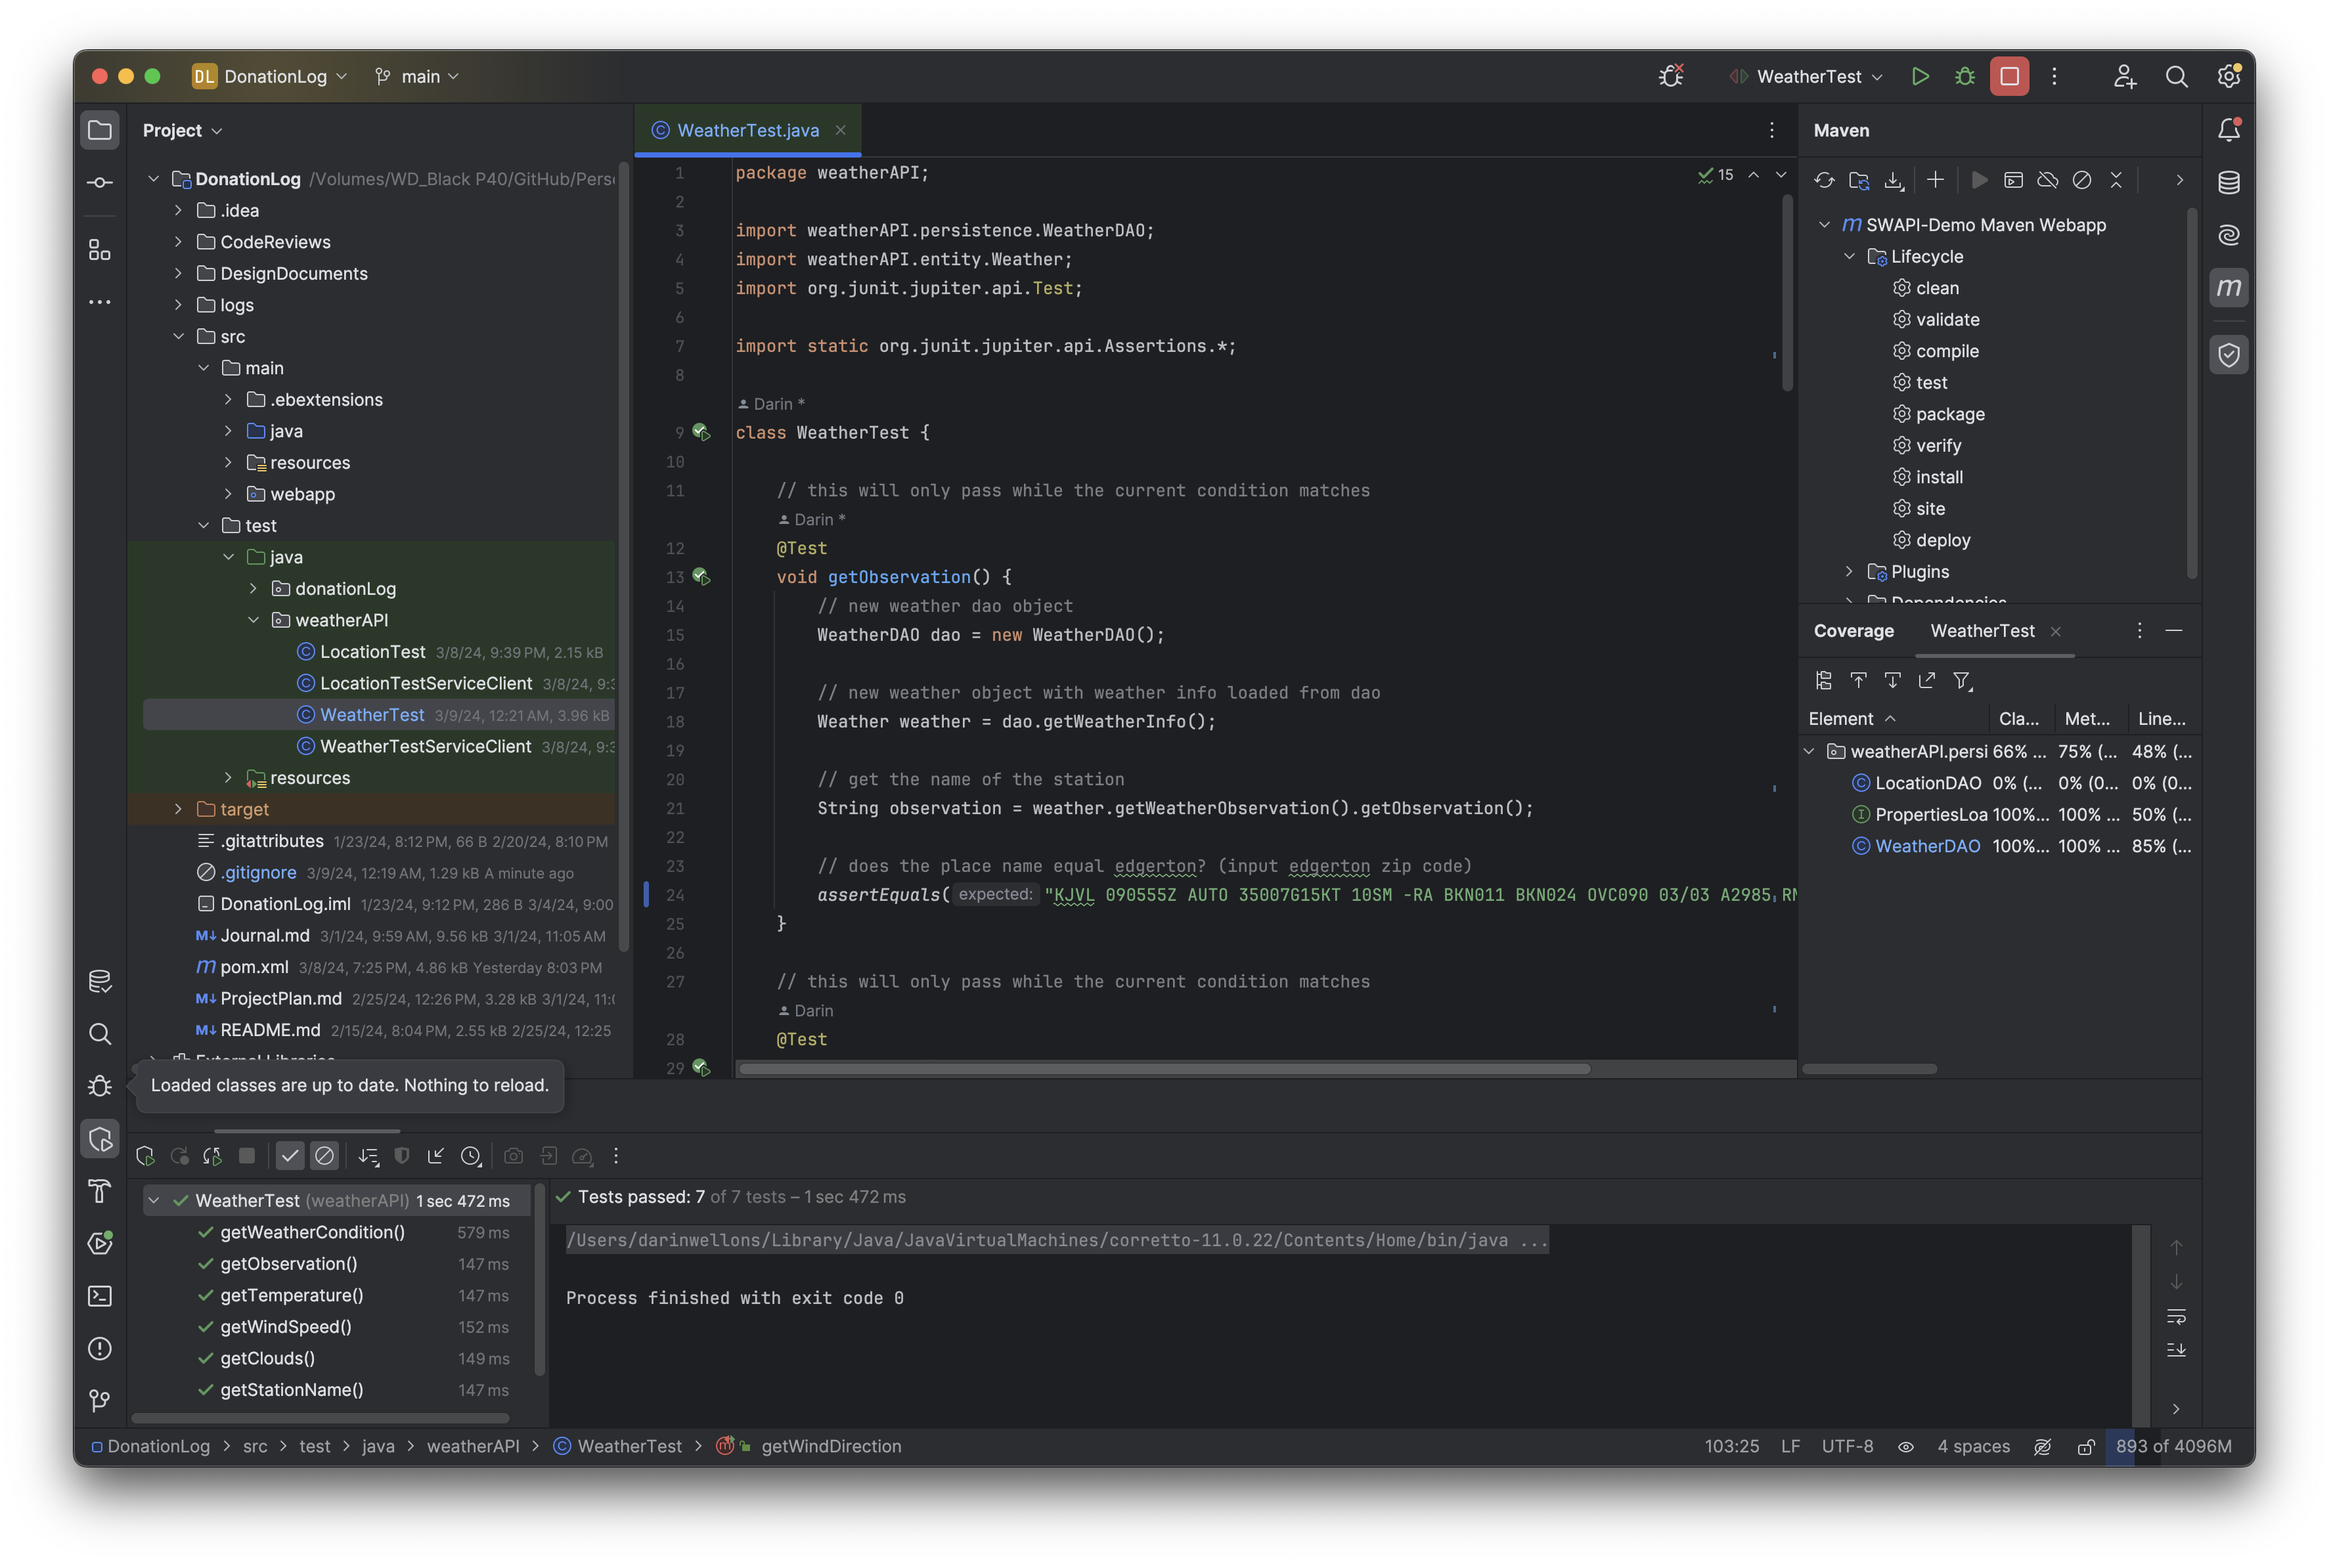
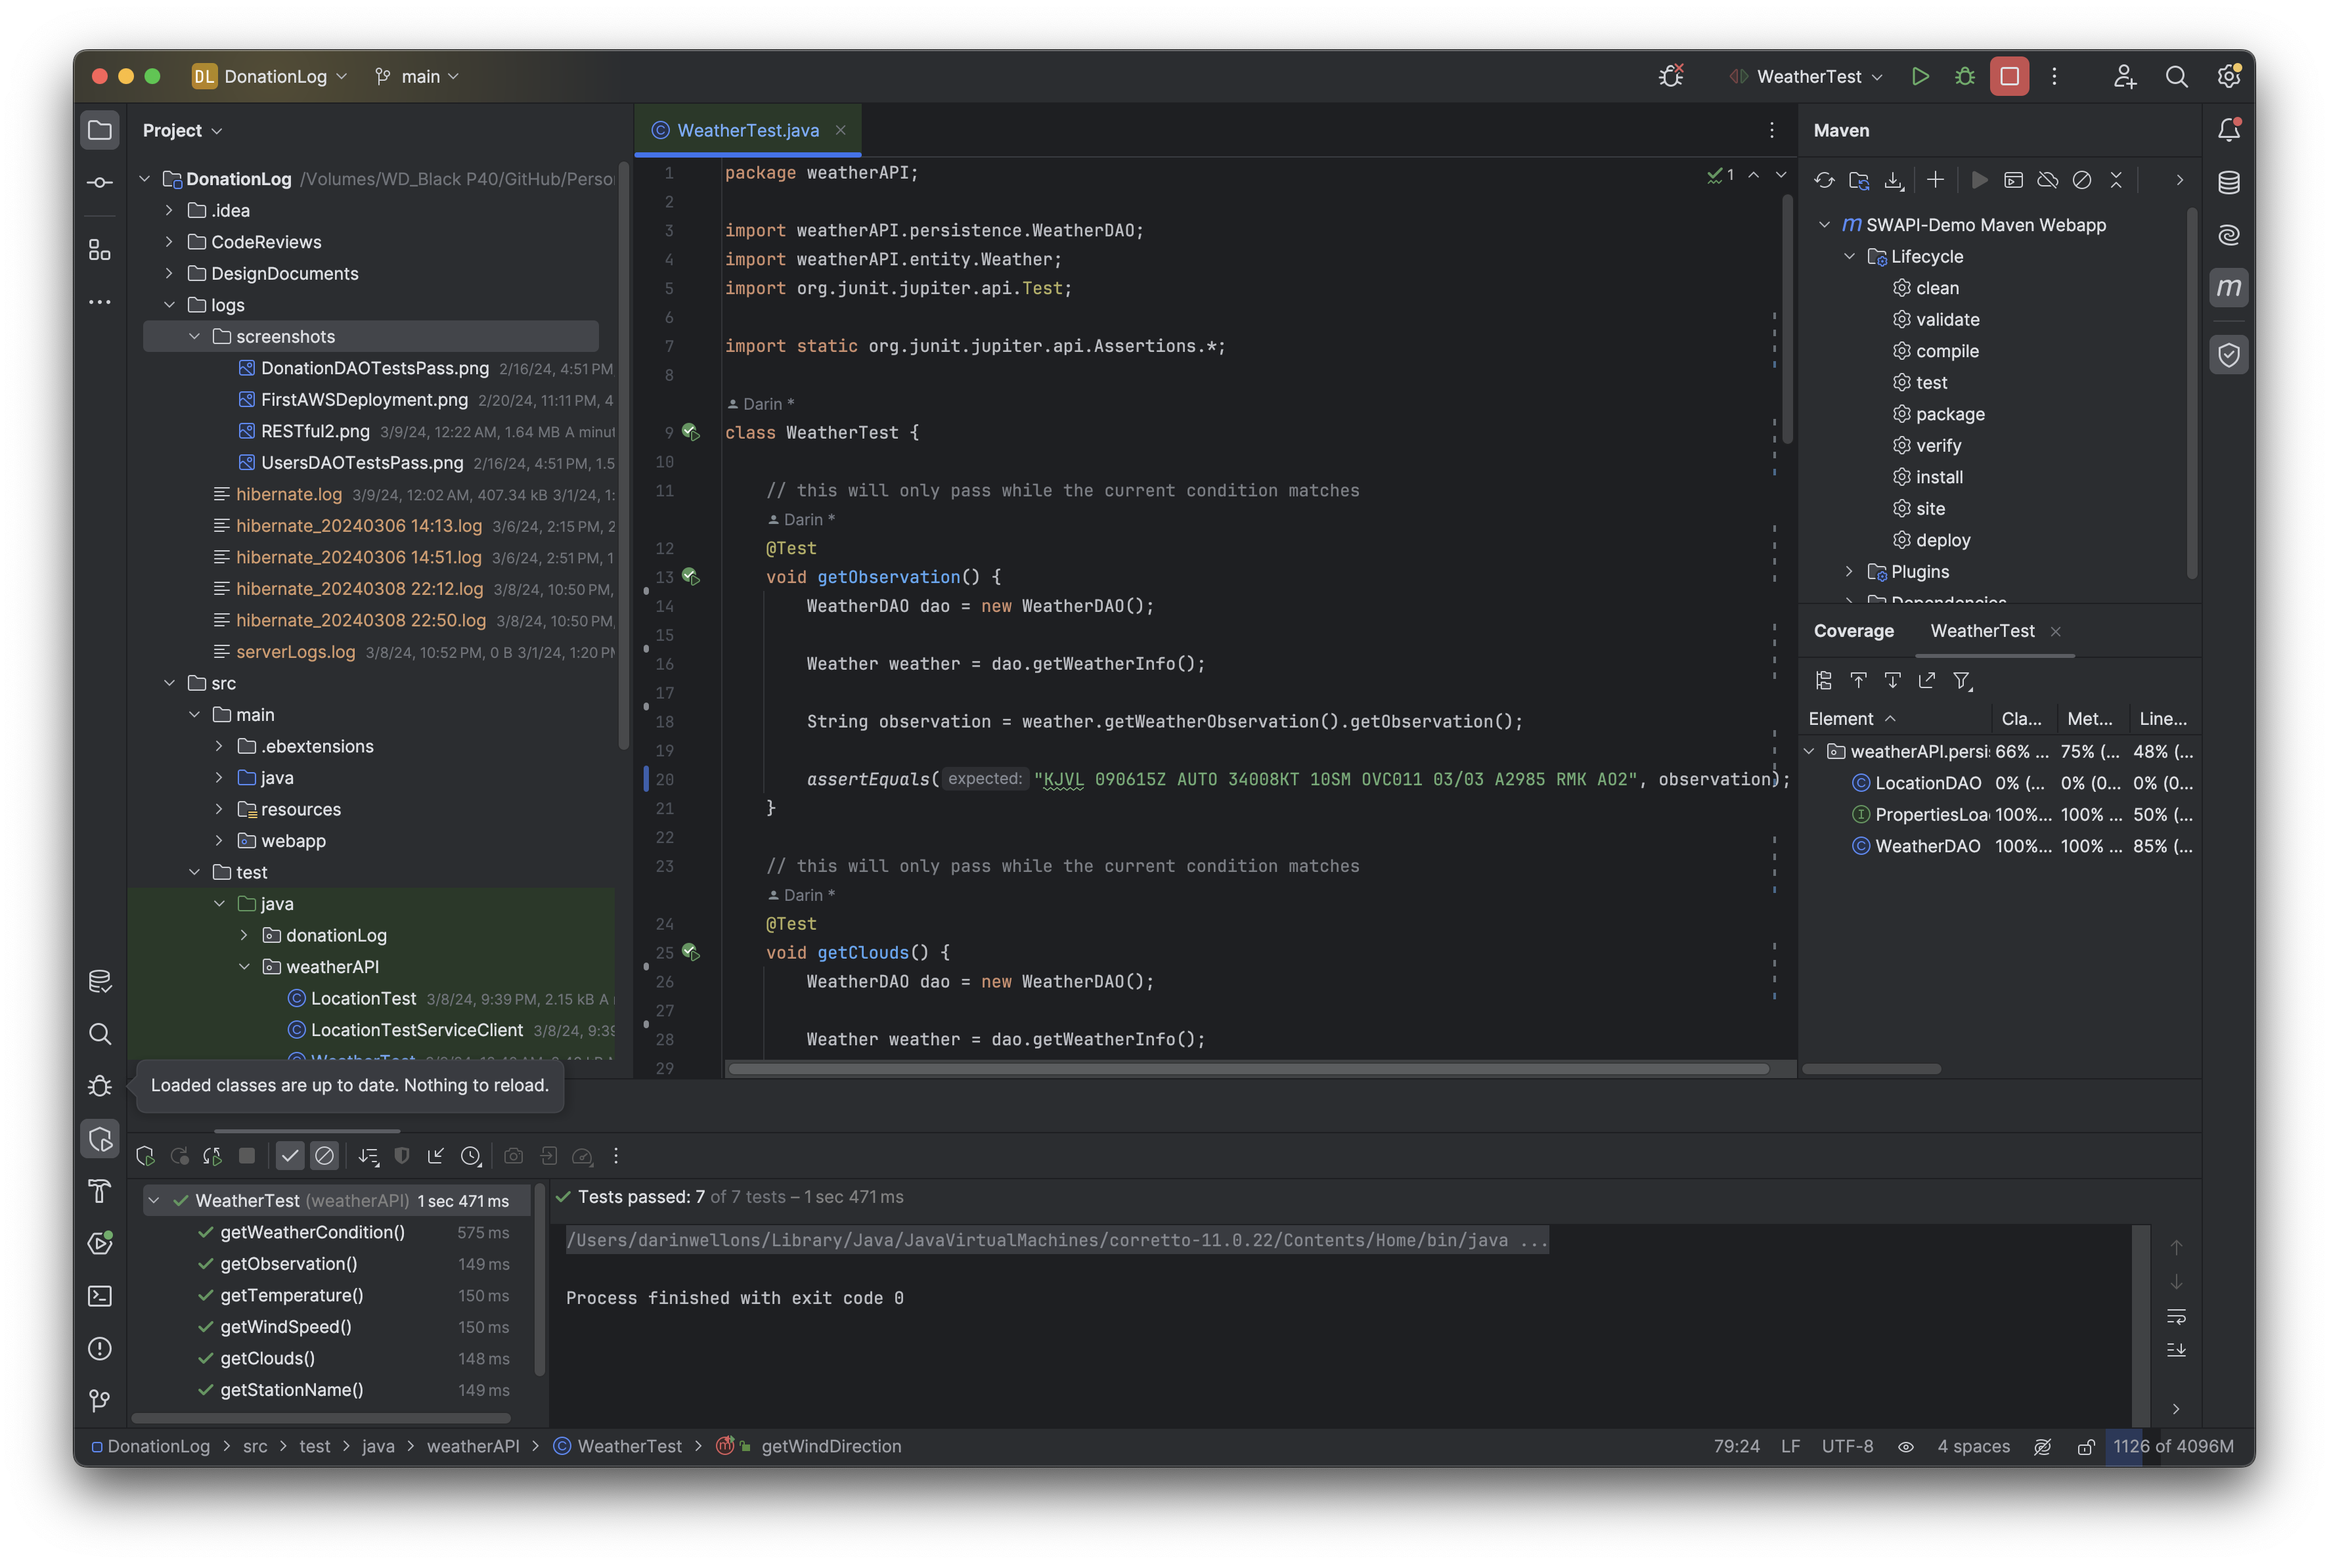
week 8 ready for review

diff --git a/src/test/java/weatherAPI/WeatherTest.java b/src/test/java/weatherAPI/WeatherTest.java
@@ -11,111 +11,83 @@ class WeatherTest {
     // this will only pass while the current condition matches
     @Test
     void getObservation() {
-        // new weather dao object
         WeatherDAO dao = new WeatherDAO();
 
-        // new weather object with weather info loaded from dao
         Weather weather = dao.getWeatherInfo();
 
-        // get the name of the station
         String observation = weather.getWeatherObservation().getObservation();
 
-        // does the place name equal edgerton? (input edgerton zip code)
-        assertEquals("KJVL 090555Z AUTO 35007G15KT 10SM -RA BKN011 BKN024 OVC090 03/03 A2985 RMK AO2", observation);
+        assertEquals("KJVL 090615Z AUTO 34008KT 10SM OVC011 03/03 A2985 RMK AO2", observation);
     }
 
     // this will only pass while the current condition matches
     @Test
     void getClouds() {
-        // new weather dao object
         WeatherDAO dao = new WeatherDAO();
 
-        // new weather object with weather info loaded from dao
         Weather weather = dao.getWeatherInfo();
 
-        // get the name of the station
         String clouds = weather.getWeatherObservation().getClouds();
 
-        // does the place name equal edgerton? (input edgerton zip code)
-        assertEquals("broken clouds", clouds);
+        assertEquals("overcast", clouds);
     }
 
     // this will only pass while the current condition matches
     @Test
     void getTemperature() {
-        // new weather dao object
         WeatherDAO dao = new WeatherDAO();
 
-        // new weather object with weather info loaded from dao
         Weather weather = dao.getWeatherInfo();
 
-        // get the name of the station
         String temperature = weather.getWeatherObservation().getTemperature();
 
-        // does the place name equal edgerton? (input edgerton zip code)
         assertEquals("3", temperature);
     }
 
     @Test
     void getStationName() {
-        // new weather dao object
         WeatherDAO dao = new WeatherDAO();
 
-        // new weather object with weather info loaded from dao
         Weather weather = dao.getWeatherInfo();
 
-        // get the name of the station
         String placeName = weather.getWeatherObservation().getStationName();
 
-        // does the place name equal edgerton? (input edgerton zip code)
         assertEquals("Janesville / Rock County", placeName);
     }
 
     // this will only pass while the current condition matches
     @Test
     void getWeatherCondition() {
-        // new weather dao object
         WeatherDAO dao = new WeatherDAO();
 
-        // new weather object with weather info loaded from dao
         Weather weather = dao.getWeatherInfo();
 
-        // get the name of the station
         String condition = weather.getWeatherObservation().getWeatherCondition();
 
-        // does the place name equal edgerton? (input edgerton zip code)
-        assertEquals("light rain", condition);
+        assertEquals("n/a", condition);
     }
 
     // this will only pass while the current condition matches
     @Test
     void getWindDirection() {
-        // new weather dao object
         WeatherDAO dao = new WeatherDAO();
 
-        // new weather object with weather info loaded from dao
         Weather weather = dao.getWeatherInfo();
 
-        // get the name of the station
         int windDirection = weather.getWeatherObservation().getWindDirection();
 
-        // does the place name equal edgerton? (input edgerton zip code)
-        assertEquals(350, windDirection);
+        assertEquals(340, windDirection);
     }
 
     // this will only pass while the current condition matches
     @Test
     void getWindSpeed() {
-        // new weather dao object
         WeatherDAO dao = new WeatherDAO();
 
-        // new weather object with weather info loaded from dao
         Weather weather = dao.getWeatherInfo();
 
-        // get the name of the station
         String windSpeed = weather.getWeatherObservation().getWindSpeed();
 
-        // does the place name equal edgerton? (input edgerton zip code)
-        assertEquals("07", windSpeed);
+        assertEquals("08", windSpeed);
     }
 }
